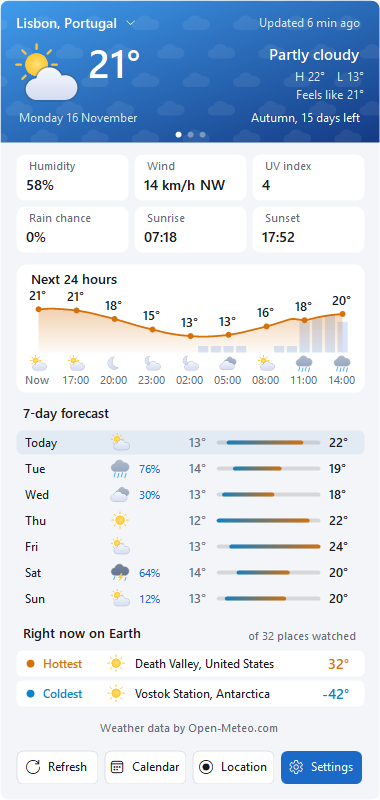
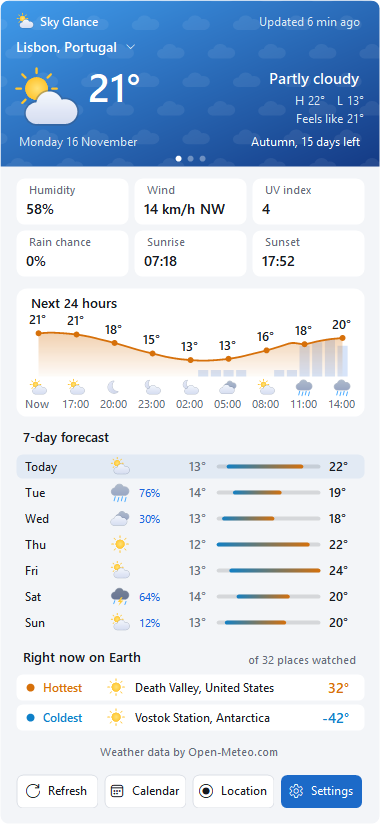
Show the app name at the top of the flyout like Salaty Reminder, and link the GitHub page in Updates

diff --git a/src/SkyGlance/UI/Flyout/WeatherFlyout.cs b/src/SkyGlance/UI/Flyout/WeatherFlyout.cs
@@ -9,7 +9,7 @@ namespace SkyGlance.UI.Flyout;
 /// </summary>
 sealed class WeatherFlyout : Form
 {
-    const int W = 380, HeaderH = 142, TileH = 46, HourlyH = 128, DayH = 26, Pad = 16, Gap = 12, ButtonH = 34;
+    const int W = 380, HeaderH = 166, TileH = 46, HourlyH = 128, DayH = 26, Pad = 16, Gap = 12, ButtonH = 34;
 
     readonly SkyGlanceApp app;
     readonly IconButton btnRefresh = new(), btnCalendar = new(), btnLocation = new(), btnSettings = new();
@@ -285,27 +285,34 @@ sealed class WeatherFlyout : Form
 
         int pad = Px(Pad);
         using var fName = new Font("Segoe UI Semibold", 10.5f);
+        using var fBrand = new Font("Segoe UI Semibold", 9f);
         using var fSmall = new Font("Segoe UI", 8.5f);
         using var fBig = new Font("Segoe UI Semibold", 30f);
         using var fCond = new Font("Segoe UI Semibold", 11f);
         var soft = Color.FromArgb(220, 232, 244);
 
-        // Place name (a switcher when there are saved cities), and the status on the far side.
+        // Top row, like Salaty Reminder's card: the mark and the app name, and the status on the far side.
+        int markS = Px(18);
+        Art.Mark(g, M(new RectangleF(pad, Px(12), markS, markS)));
+        TextRenderer.DrawText(g, L.T("AppName"), fBrand, M(new Rectangle(pad + markS + Px(6), Px(10), Px(140), Px(22))), Color.White,
+            Near | TextFormatFlags.VerticalCenter | TextFormatFlags.NoPadding);
+
+        // Second row: the place name (a switcher when there are saved cities).
         string place = app.ActivePlace?.Name ?? L.T("NoLocation");
         string status = StatusText(f);
         int statusW = Px(130);
         bool multi = app.S.Cities.Count > 0;
-        int nameMax = Width - pad * 2 - statusW - (multi ? Px(20) : 0);
+        int nameMax = Width - pad * 2 - (multi ? Px(20) : 0);
         int nameW = Math.Min(nameMax, TextRenderer.MeasureText(g, place, fName, Size.Empty, TextFormatFlags.NoPadding).Width + Px(2));
-        TextRenderer.DrawText(g, place, fName, M(new Rectangle(pad, Px(10), nameW, Px(24))), Color.White,
+        TextRenderer.DrawText(g, place, fName, M(new Rectangle(pad, Px(34), nameW, Px(24))), Color.White,
             Near | TextFormatFlags.VerticalCenter | TextFormatFlags.EndEllipsis | TextFormatFlags.NoPadding);
         placeHit = Rectangle.Empty;
         if (multi)
         {
             using var fChevron = new Font(Art.IconFontName, 8f);
-            var chev = M(new Rectangle(pad + nameW + Px(4), Px(10), Px(16), Px(24)));
+            var chev = M(new Rectangle(pad + nameW + Px(4), Px(34), Px(16), Px(24)));
             TextRenderer.DrawText(g, Art.IconChevronDown, fChevron, chev, Color.White, TextFormatFlags.HorizontalCenter | TextFormatFlags.VerticalCenter);
-            placeHit = M(new Rectangle(pad - Px(4), Px(8), nameW + Px(26), Px(28)));
+            placeHit = M(new Rectangle(pad - Px(4), Px(32), nameW + Px(26), Px(28)));
             // One dot per place, the shown one bright, centred at the foot of the header.
             int count = app.S.Cities.Count + 1, active = CityCycle.Clamp(app.S.ActiveCity, app.S.Cities.Count) + 1, dot = Px(6), step = Px(12);
             int x0 = (Width - (count - 1) * step) / 2;
@@ -316,27 +323,27 @@ sealed class WeatherFlyout : Form
                 g.FillEllipse(b, x0 + pos * step - dot / 2f, Px(HeaderH) - Px(8) - dot / 2f, dot, dot);
             }
         }
-        TextRenderer.DrawText(g, status, fSmall, M(new Rectangle(Width - pad - statusW, Px(10), statusW, Px(24))), soft,
+        TextRenderer.DrawText(g, status, fSmall, M(new Rectangle(Width - pad - statusW, Px(10), statusW, Px(22))), soft,
             Far | TextFormatFlags.VerticalCenter | TextFormatFlags.EndEllipsis);
 
         if (now is not { } cur || f == null) return;
 
         int iconS = Px(68);
-        Art.Weather(g, M(new RectangleF(pad - Px(4), Px(40), iconS, iconS)), icon, isDay);
+        Art.Weather(g, M(new RectangleF(pad - Px(4), Px(64), iconS, iconS)), icon, isDay);
         string temp = Num(cur.tempC);
-        var tempR = M(new Rectangle(pad + iconS + Px(4), Px(34), Px(130), Px(56)));
+        var tempR = M(new Rectangle(pad + iconS + Px(4), Px(58), Px(130), Px(56)));
         TextRenderer.DrawText(g, temp, fBig, tempR, Color.White, (Rtl ? TextFormatFlags.Right : TextFormatFlags.Left) | TextFormatFlags.VerticalCenter | TextFormatFlags.NoPadding);
 
         var today = f.Today(localNow);
         int farW = Px(150);
         var farX = Width - pad - farW;
-        TextRenderer.DrawText(g, L.Condition(cur.code), fCond, M(new Rectangle(farX, Px(44), farW, Px(22))), Color.White,
+        TextRenderer.DrawText(g, L.Condition(cur.code), fCond, M(new Rectangle(farX, Px(68), farW, Px(22))), Color.White,
             Far | TextFormatFlags.EndEllipsis);
         if (today != null)
-            Run(g, [L.T("High"), Num(today.MaxC), "  " + L.T("Low"), Num(today.MinC)], fSmall, soft, new Rectangle(farX, Px(68), farW, Px(18)), far: true);
+            Run(g, [L.T("High"), Num(today.MaxC), "  " + L.T("Low"), Num(today.MinC)], fSmall, soft, new Rectangle(farX, Px(92), farW, Px(18)), far: true);
         bool fresh = (DateTime.UtcNow - f.FetchedUtc).TotalMinutes < 75;
         if (fresh)
-            Run(g, [L.T("FeelsLike"), Num(f.Current.FeelsLikeC)], fSmall, soft, new Rectangle(farX, Px(86), farW, Px(18)), far: true);
+            Run(g, [L.T("FeelsLike"), Num(f.Current.FeelsLikeC)], fSmall, soft, new Rectangle(farX, Px(110), farW, Px(18)), far: true);
 
         // Date at the place, plus its clock when it is in another time zone than this PC.
         string date = L.LongDay(localNow);
@@ -348,13 +355,13 @@ sealed class WeatherFlyout : Form
             int left = SeasonCalendar.DaysLeft(day);
             string season = left <= 1 ? L.F("SeasonLastDay", name) : L.F("SeasonLeft", name, left);
             int seasonW = Px(150);
-            TextRenderer.DrawText(g, season, fSmall, M(new Rectangle(Width - pad - seasonW, Px(110), seasonW, Px(18))), Color.White, Far | TextFormatFlags.EndEllipsis);
+            TextRenderer.DrawText(g, season, fSmall, M(new Rectangle(Width - pad - seasonW, Px(134), seasonW, Px(18))), Color.White, Far | TextFormatFlags.EndEllipsis);
             TextRenderer.DrawText(g, date + (!app.Headless && Math.Abs((localNow - DateTime.Now).TotalMinutes) > 1 ? "   " + L.F("LocalTime", L.Clock(localNow)) : ""), fSmall,
-                M(new Rectangle(pad, Px(110), Width - pad * 2 - seasonW - Px(8), Px(18))), soft, Near | TextFormatFlags.EndEllipsis);
+                M(new Rectangle(pad, Px(134), Width - pad * 2 - seasonW - Px(8), Px(18))), soft, Near | TextFormatFlags.EndEllipsis);
             return;
         }
         if (!app.Headless && Math.Abs((localNow - DateTime.Now).TotalMinutes) > 1) date += "   " + L.F("LocalTime", L.Clock(localNow));
-        TextRenderer.DrawText(g, date, fSmall, M(new Rectangle(pad, Px(110), Width - pad * 2, Px(18))), soft, Near | TextFormatFlags.EndEllipsis);
+        TextRenderer.DrawText(g, date, fSmall, M(new Rectangle(pad, Px(134), Width - pad * 2, Px(18))), soft, Near | TextFormatFlags.EndEllipsis);
     }
 
     /// <summary>A temperature with Latin digits, drawn on its own so no bidi rule can move its sign or degree mark.</summary>

diff --git a/src/SkyGlance/UI/Settings/SettingsForm.cs b/src/SkyGlance/UI/Settings/SettingsForm.cs
@@ -275,11 +275,20 @@ sealed class SettingsForm : Form
         tglAutoInstall.Checked = s.AutoInstallUpdates;
         btnCheck.Text = L.T("CheckNow");
         var version = new Label { Text = L.F("Version", Updater.CurrentText), AutoSize = true, Font = new Font("Segoe UI Semibold", 11f), Margin = new Padding(0, 0, 0, 8) };
+        // The project page: source, releases and issues.
+        var github = new LinkLabel
+        {
+            Text = Updater.RepoPage.Replace("https://", ""), AutoSize = true, Tag = "keep", Margin = new Padding(0, 6, 0, 0),
+            LinkColor = t.Accent, ActiveLinkColor = t.AccentHover, VisitedLinkColor = t.Accent, LinkBehavior = LinkBehavior.HoverUnderline,
+        };
+        github.LinkClicked += (_, _) => Updater.OpenPage(Updater.RepoPage);
+        var githubRow = Row(L.T("SourceCode"), github);
         AddPage(Art.IconUpdate, L.T("Updates"), Card(L.T("Updates"), Art.IconUpdate,
             version,
             Row(L.T("AutoCheck"), tglAutoCheck),
             Row(L.T("AutoInstall"), tglAutoInstall),
-            Flow(btnCheck, lblUpdate)));
+            Flow(btnCheck, lblUpdate),
+            githubRow));
         tglAutoCheck.CheckedChanged += (_, _) => SyncEnabled();
         btnCheck.Click += async (_, _) =>
         {

diff --git a/src/SkyGlance/Localization/L.cs b/src/SkyGlance/Localization/L.cs
@@ -145,6 +145,7 @@ public static class L
         ["Updates"] = ("Updates", "التحديثات"),
         ["AutoCheck"] = ("Check for updates automatically", "التحقق من التحديثات تلقائيًا"),
         ["AutoInstall"] = ("Install updates automatically", "تثبيت التحديثات تلقائيًا"),
+        ["SourceCode"] = ("Source code and releases on GitHub", "الشيفرة المصدرية والإصدارات على GitHub"),
         ["CheckNow"] = ("Check now", "تحقق الآن"),
         ["Version"] = ("Version {0}", "الإصدار {0}"),
         ["UpToDate"] = ("You're on the latest version ({0}).", "لديك أحدث إصدار ({0})."),

diff --git a/src/SkyGlance/Services/Updater.cs b/src/SkyGlance/Services/Updater.cs
@@ -14,6 +14,7 @@ public static class Updater
     public const string Repo = "medovanx/sky-glance";
     public const string AssetName = "SkyGlance.exe";
     public static string ReleasesPage => $"https://github.com/{Repo}/releases";
+    public static string RepoPage => $"https://github.com/{Repo}";
 
     public sealed record Release(Version Version, string Tag, string PageUrl, string AssetUrl, string? Sha256);
 
